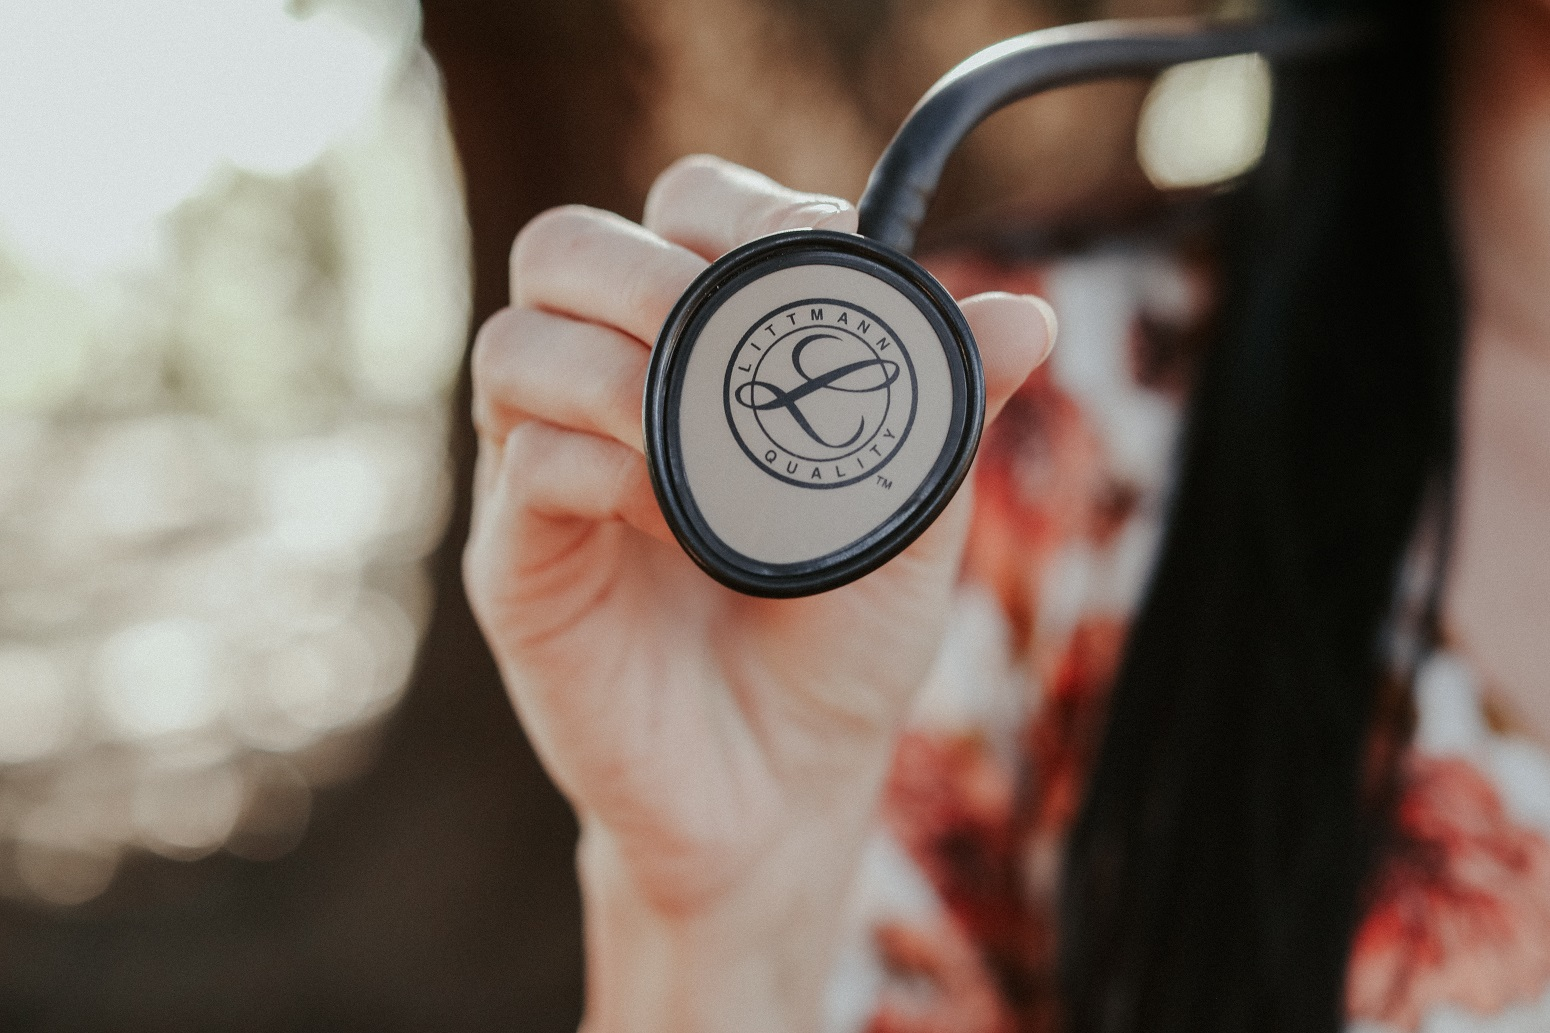
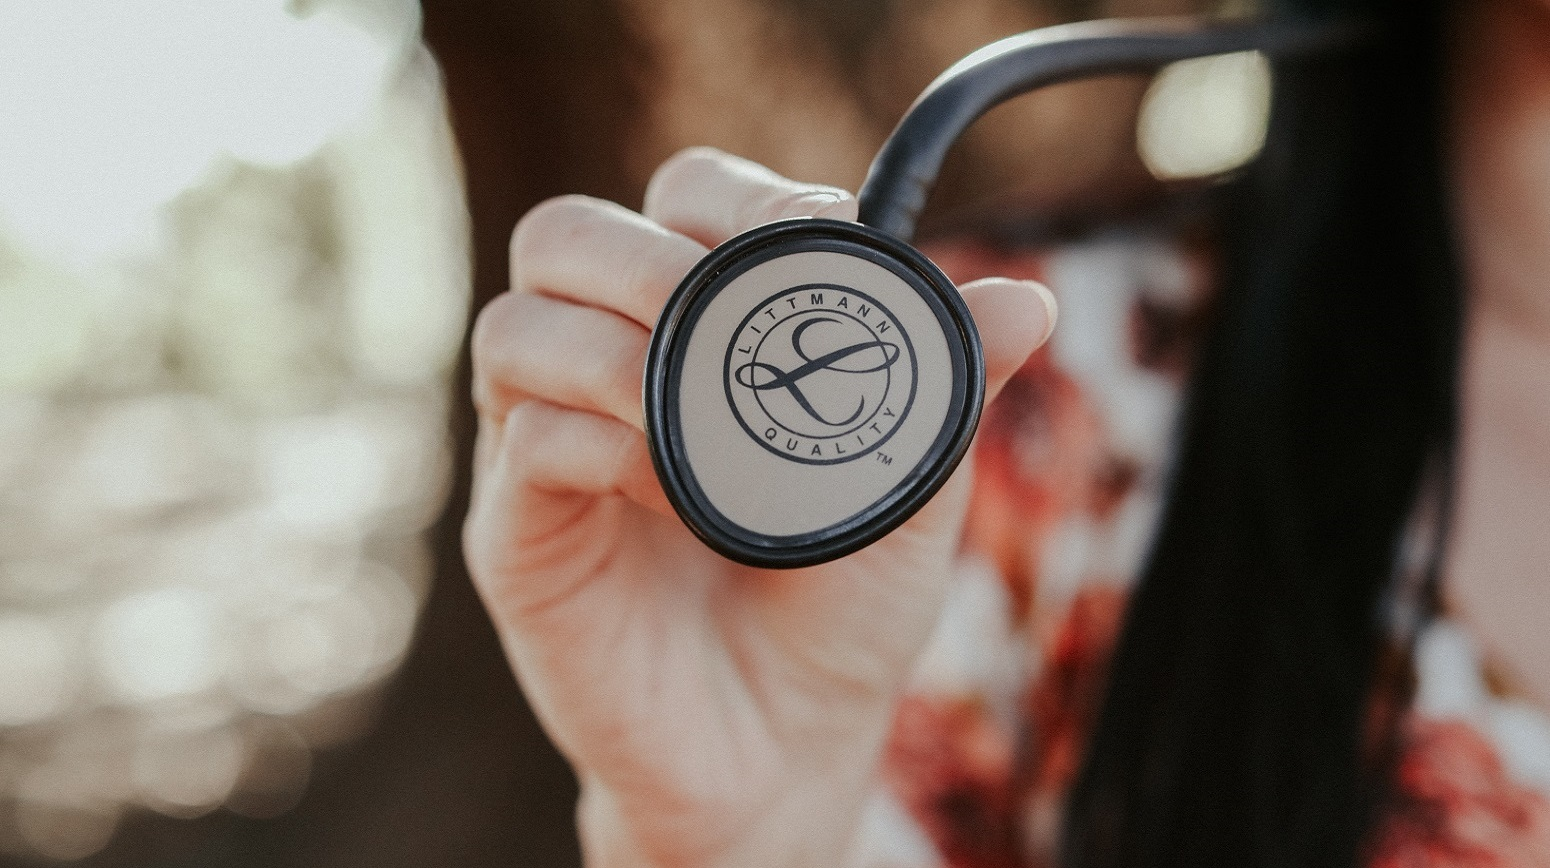
image size update

diff --git a/src/Home.js b/src/Home.js
@@ -8,8 +8,8 @@ export default function Home(props) {
       <img
         alt="clinic"
         width="100%"
-        src="./images/steth-sm.jpg"
-        srcset="./images/steth-sm.jpg 775w,./images/steth-md.jpg 1550w, ./images/steth-lg.jpg 3100w"
+        src="./images/steth-xs.jpg"
+        srcset="./images/steth-xs.jpg 400w, ./images/steth-sm.jpg 775w,./images/steth-md.jpg 1550w, ./images/steth-lg.jpg 3100w"
         sizes="100vw"
       />
       <Row type="flex" justify="center" style={{marginTop: '2rem'}}>
